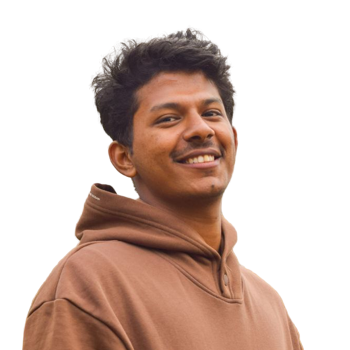
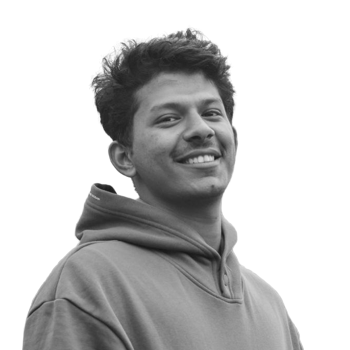
AboutMe Complete

diff --git a/portfolio/src/app/app.component.ts b/portfolio/src/app/app.component.ts
@@ -1,6 +1,7 @@
 import { Component } from '@angular/core';
-import { ToolbarAction } from './helpers/constant';
+import { ContentBlockType, ToolbarAction } from './helpers/constant';
 import { Literal } from './helpers/literals';
+import { ContentBlock } from './models/content-block';
 import { ToolbarMenuModel } from './models/toolbar-menu-model';
 
 @Component({
@@ -22,4 +23,29 @@ export class AppComponent {
       action: ToolbarAction.BLOG,
     },
   ];
+
+  aboutMeContent: ContentBlock = {
+    title: 'About Me',
+    messages: [
+      'A developer from India, keen to learn and work in diverse projects.',
+      'I used to freelance during my college days as a mentor and developing projects which helped to cultivate crucial skills such as understanding the customer requirement, transforming a requirement to a solution and finally the fun part, the coding.',
+      'I graduated with a Computer Science Degree in 2021. Currently I’m working for a software company in India as full-stack developer.',
+    ],
+    blocks: [
+      {
+        title: 'Road Map',
+        url: '',
+        description: 'Career path',
+        icon: 'https://cdn-icons-png.flaticon.com/512/9217/9217013.png',
+        type: ContentBlockType.CHIP,
+      },
+      {
+        title: 'Achievements',
+        url: '',
+        description: 'Rewards and Recognition',
+        icon: 'https://cdn-icons-png.flaticon.com/512/1435/1435715.png',
+        type: ContentBlockType.CHIP,
+      },
+    ],
+  };
 }

diff --git a/portfolio/src/app/components/content-block/content-block.component.scss b/portfolio/src/app/components/content-block/content-block.component.scss
@@ -1,0 +1,53 @@
+@import "../../variables.scss";
+
+.content-block-wrapper {
+  display: flex;
+  flex-flow: column nowrap;
+  margin-top: 4rem;
+
+  h1,
+  p {
+    margin: 0;
+    padding: 0;
+  }
+
+  h1 {
+    font-weight: 500;
+    font-size: 3rem;
+    margin-bottom: 2rem;
+  }
+
+  p {
+    font-size: 1.4rem;
+    margin-bottom: 1.4rem;
+    color: rgba($color: #000000, $alpha: 1);
+  }
+
+  .block-wrapper {
+    display: flex;
+    margin-top: 1rem;
+  }
+
+  .chip {
+    display: flex;
+    align-items: center;
+    padding: 0.4rem 2rem;
+    margin-right: 1rem;
+    background: linear-gradient($site-background, $site-background) padding-box,
+      linear-gradient(to right, $gradient-start-color, $gradient-end-color)
+        border-box;
+    border-radius: 1rem;
+    border: 2px solid transparent;
+    .chip-icon {
+      width: 32px;
+      height: 32px;
+    }
+    .chip-text {
+      display: inline;
+      margin: 0;
+      padding: 0;
+      margin-left: 0.4rem;
+      font-size: 1.2rem;
+    }
+  }
+}

diff --git a/portfolio/src/app/components/content-block/content-block.component.html b/portfolio/src/app/components/content-block/content-block.component.html
@@ -1,0 +1,28 @@
+<div class="content-block-wrapper">
+  <h1>
+    {{ contentData.title }}
+  </h1>
+  <p *ngFor="let message of contentData.messages">
+    {{ message }}
+  </p>
+
+  <ng-template #card let-block="block"> </ng-template>
+
+  <ng-template #chip let-block="block">
+    <div class="chip">
+      <img src="{{ block.icon }}" alt="chip image" class="chip-icon" />
+      <p class="chip-text">
+        {{ block.title }}
+      </p>
+    </div>
+  </ng-template>
+
+  <div class="block-wrapper">
+    <ng-container
+      *ngFor="let block of contentData.blocks"
+      [ngTemplateOutlet]="block.type == blockType.CARD ? card : chip"
+      [ngTemplateOutletContext]="{ block: block }"
+    >
+    </ng-container>
+  </div>
+</div>

diff --git a/portfolio/src/app/components/content-block/content-block.component.spec.ts b/portfolio/src/app/components/content-block/content-block.component.spec.ts
@@ -1,0 +1,25 @@
+import { ComponentFixture, TestBed } from '@angular/core/testing';
+
+import { ContentBlockComponent } from './content-block.component';
+
+describe('ContentBlockComponent', () => {
+  let component: ContentBlockComponent;
+  let fixture: ComponentFixture<ContentBlockComponent>;
+
+  beforeEach(async () => {
+    await TestBed.configureTestingModule({
+      declarations: [ ContentBlockComponent ]
+    })
+    .compileComponents();
+  });
+
+  beforeEach(() => {
+    fixture = TestBed.createComponent(ContentBlockComponent);
+    component = fixture.componentInstance;
+    fixture.detectChanges();
+  });
+
+  it('should create', () => {
+    expect(component).toBeTruthy();
+  });
+});

diff --git a/portfolio/src/app/components/header/header.component.html b/portfolio/src/app/components/header/header.component.html
@@ -6,6 +6,13 @@
       <h3>
         A passionate software engineer who loves creating & managing projects.
       </h3>
+
+      <ul>
+        <li><img src="https://cdn-icons-png.flaticon.com/512/37/37452.png" alt="StackOverflow logo" /></li>
+        <li><img src="https://cdn-icons-png.flaticon.com/512/733/733609.png" alt="Github logo" /></li>
+        <li><img src="https://cdn-icons-png.flaticon.com/512/1384/1384088.png" alt="LinkedIn logo" /></li>
+        <li><img src="https://cdn-icons-png.flaticon.com/512/3178/3178165.png" alt="Mail logo" /></li>
+      </ul>
     </div>
   </div>
 </div>

diff --git a/portfolio/src/app/components/content-block/content-block.component.ts b/portfolio/src/app/components/content-block/content-block.component.ts
@@ -1,0 +1,21 @@
+import { Component, Input } from '@angular/core';
+import { ContentBlockType } from 'src/app/helpers/constant';
+import { ContentBlock } from 'src/app/models/content-block';
+
+@Component({
+  selector: 'app-content-block',
+  templateUrl: './content-block.component.html',
+  styleUrls: ['./content-block.component.scss'],
+})
+export class ContentBlockComponent {
+  // The title of the content block
+  @Input() contentData: ContentBlock = {
+    title: '',
+    messages: [],
+    blocks: [],
+  };
+
+  blockType = ContentBlockType;
+
+  constructor() {}
+}

diff --git a/portfolio/src/app/app.module.ts b/portfolio/src/app/app.module.ts
@@ -8,8 +8,9 @@ import { HeaderComponent } from './components/header/header.component';
 import { BrowserAnimationsModule } from '@angular/platform-browser/animations';
 
 import { MatIconModule } from '@angular/material/icon';
+import { ContentBlockComponent } from './components/content-block/content-block.component';
 @NgModule({
-  declarations: [AppComponent, ToolbarComponent, HeaderComponent],
+  declarations: [AppComponent, ToolbarComponent, HeaderComponent, ContentBlockComponent],
   imports: [
     BrowserModule,
     AppRoutingModule,

diff --git a/portfolio/src/app/components/header/header.component.scss b/portfolio/src/app/components/header/header.component.scss
@@ -8,8 +8,8 @@
     border-radius: 50%;
     max-width: 350px;
     padding: -4px;
-    background-color: #F9EBE2;
-    border: 6px solid rgba($color: #000000, $alpha: 0.4);
+    background-color: #ffffff;
+    border: 6px solid rgba($color: #000000, $alpha: 1);
   }
   .header-left-wrap {
     flex-grow: 1;
@@ -44,7 +44,9 @@
     }
 
     ul {
-      margin-top: 3rem;
+      margin: auto;
+      margin-top: 2rem;
+      width: 60%;
       list-style: none;
       display: flex;
       justify-content: space-between;

diff --git a/portfolio/src/app/models/content-block.ts b/portfolio/src/app/models/content-block.ts
@@ -1,0 +1,15 @@
+import { ContentBlockType } from '../helpers/constant';
+
+export interface ContentBlock {
+  title: string;
+  messages:string[]
+  blocks: ContentBlockData[];
+}
+
+export interface ContentBlockData {
+  title: string;
+  url: string;
+  description: string;
+  icon: string;
+  type: ContentBlockType;
+}

diff --git a/portfolio/src/app/app.component.html b/portfolio/src/app/app.component.html
@@ -2,5 +2,6 @@
   <div class="content">
     <app-toolbar [toolbarMenuList]="toolbarMenuList"></app-toolbar>
     <app-header></app-header>
+    <app-content-block [contentData]="aboutMeContent"></app-content-block>
   </div>
 </div>

diff --git a/portfolio/src/app/helpers/constant.ts b/portfolio/src/app/helpers/constant.ts
@@ -2,3 +2,8 @@ export enum ToolbarAction {
   PROJECT = 1,
   BLOG = 2,
 }
+
+export enum ContentBlockType {
+  CHIP = 1, 
+  CARD = 2,
+}

diff --git a/portfolio/src/app/variables.scss b/portfolio/src/app/variables.scss
@@ -1,0 +1,4 @@
+// Colors
+$site-background: #f2f2f2;
+$gradient-start-color: #da2b2b;
+$gradient-end-color: #1c5ec1;
